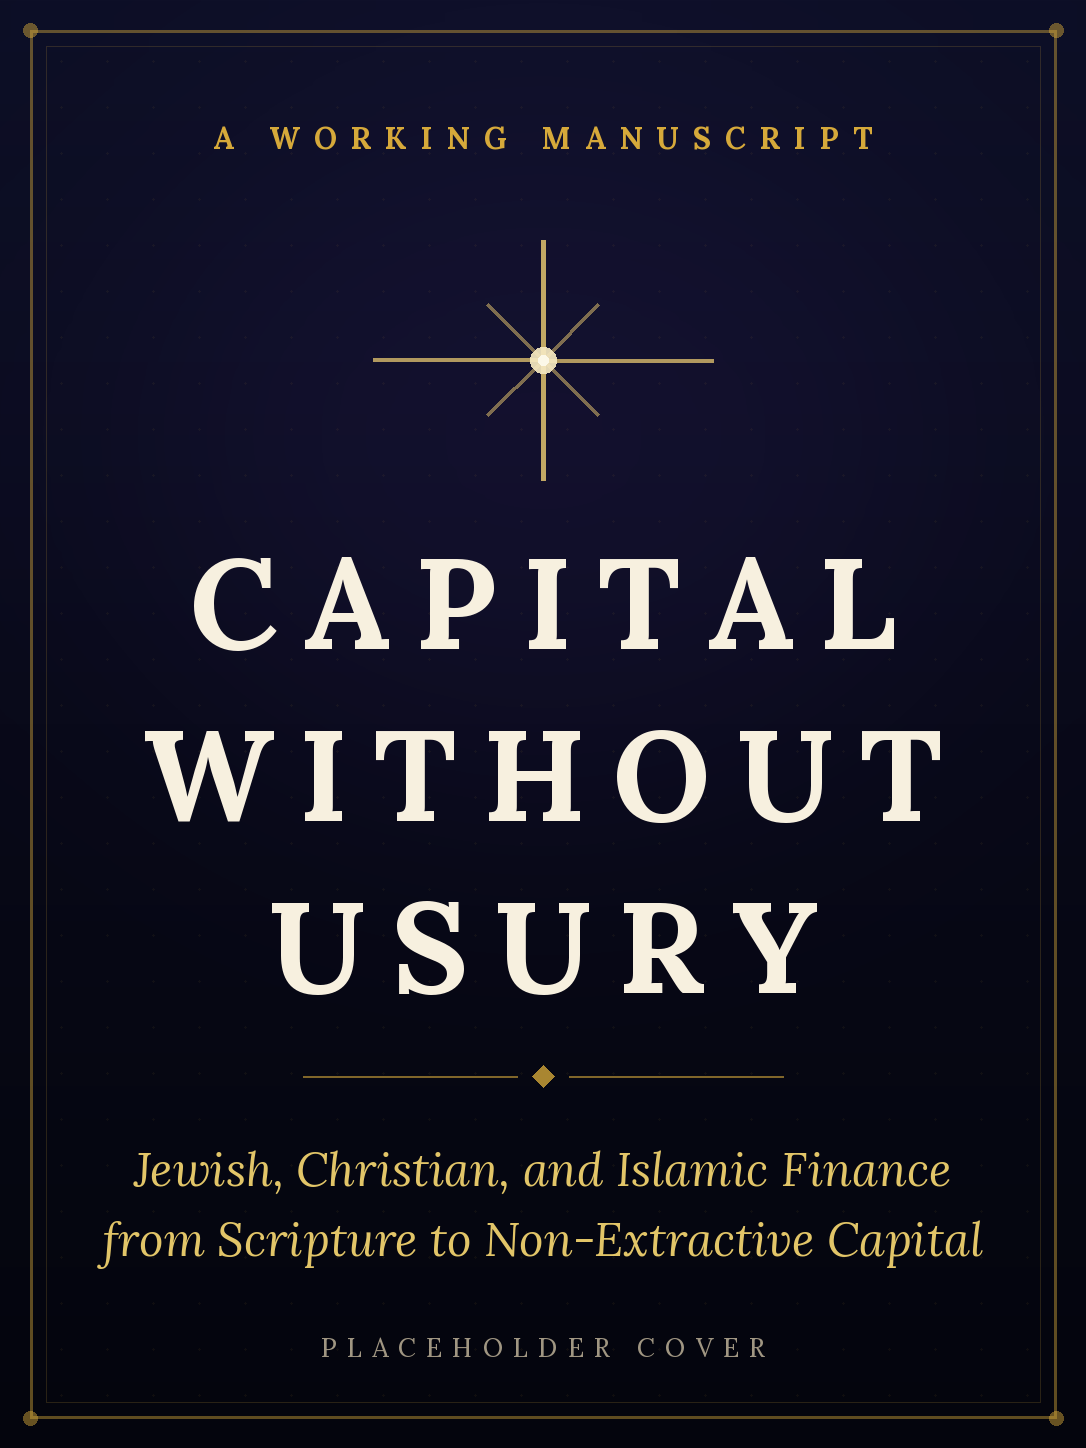
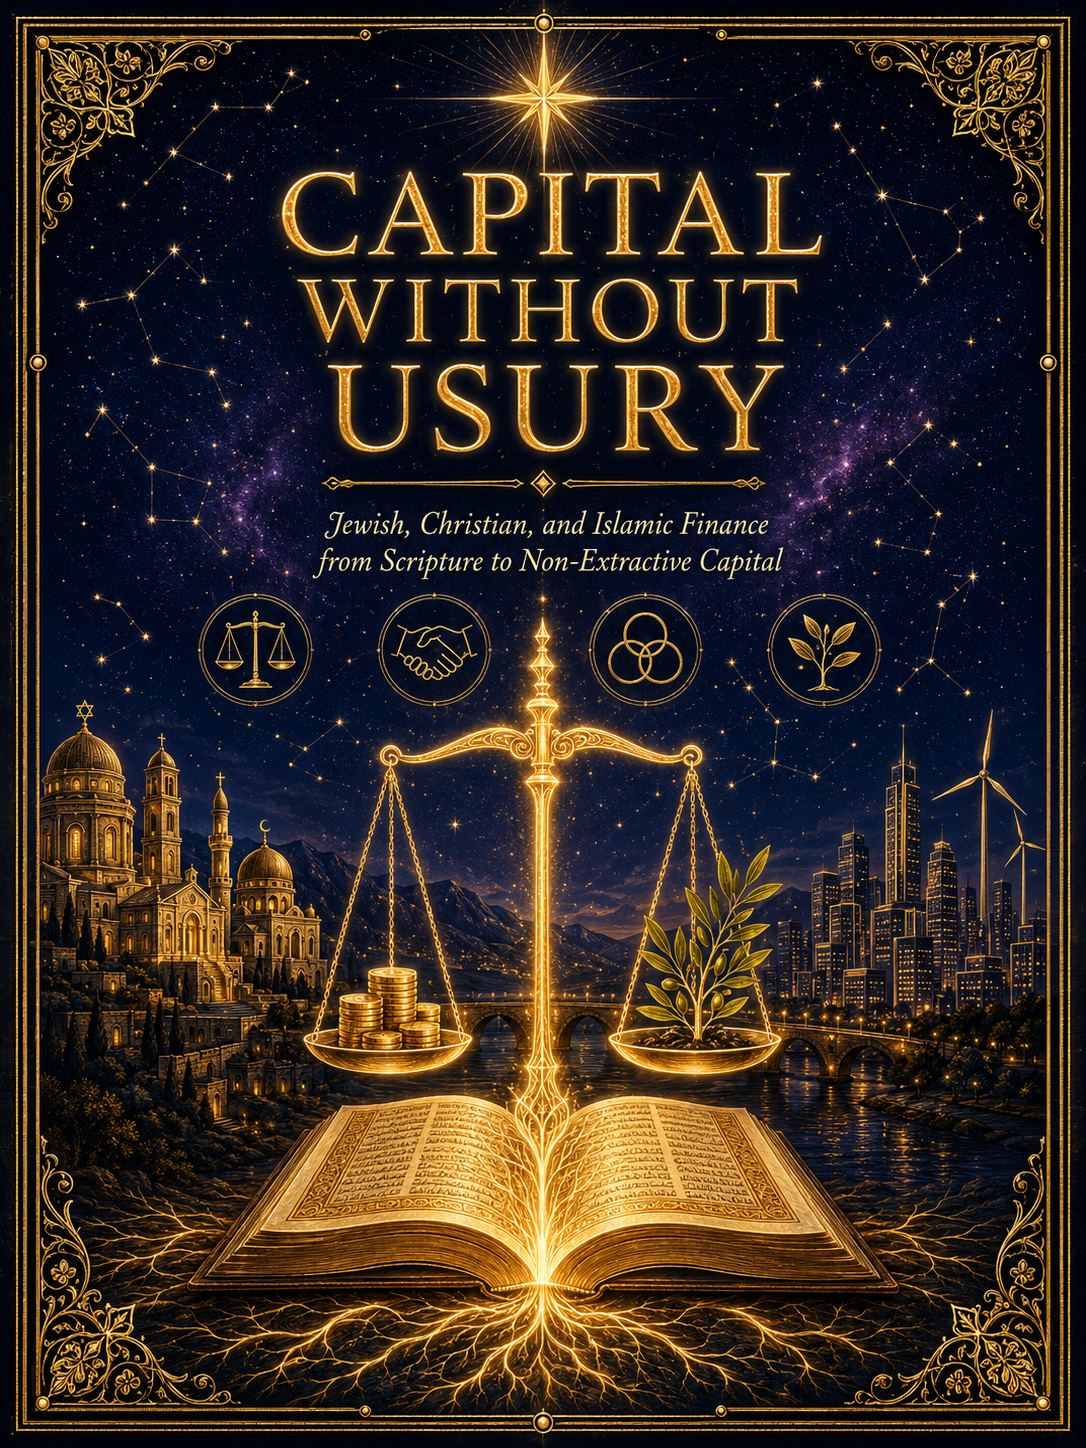
Install final cover art
Replaces the typographic placeholder with the rendered cover (1086 x 1448,
same composition family as the Capital That Serves Life cover) and refreshes
the Open Graph share card from it. README and art-tool notes updated to
reflect that the placeholder stage is over.

Claude-Session: https://claude.ai/code/session_01DNb2CMWzNTmfUdWDD8oopS

diff --git a/tools/make_placeholder_art.py b/tools/make_placeholder_art.py
@@ -1,11 +1,13 @@
 #!/usr/bin/env python3
-"""Generate the placeholder cover art and the Open Graph card for the reader.
+"""Generate cover placeholder art and the Open Graph card for the reader.
 
-The cover at attached_assets/capital-without-usury-cover.png is a typographic
-PLACEHOLDER in the NEC palette. To replace it with real cover art, overwrite
-that file with the final image (same filename, ideally around 1086 x 1448 px,
-3:4 portrait) and rebuild; no code change is needed. Then rerun this script
-with --og-only to refresh the Open Graph card from the new cover.
+The final cover art was installed on 14 Jul 2026. This script's default mode
+(no flags) would OVERWRITE it with a typographic placeholder, so normally run
+it only as `make_placeholder_art.py --og-only`, which rebuilds the Open Graph
+card (opengraph.jpg) from whatever cover is at
+attached_assets/capital-without-usury-cover.png. To swap in new cover art:
+overwrite that file (same filename, about 1086 x 1448 px, 3:4 portrait), run
+--og-only, and rebuild; no code change is needed.
 """
 import argparse
 import math

diff --git a/README.md b/README.md
@@ -43,7 +43,7 @@ The converter mirrors the book's own `assemble.py` (unit order, Part divisions),
 
 ## Cover art
 
-`attached_assets/capital-without-usury-cover.png` is currently a **typographic placeholder**. To install the real cover: overwrite that file with the final image (same filename; portrait, about 1086 x 1448 px), run `python3 tools/make_placeholder_art.py --og-only` to refresh the social-share card (`opengraph.jpg`), commit, and push. No code change is needed.
+`attached_assets/capital-without-usury-cover.png` is the final cover (1086 x 1448 px, installed 14 Jul 2026). To swap in a new version later: overwrite that file (same filename; portrait, about 1086 x 1448 px), run `python3 tools/make_placeholder_art.py --og-only` to refresh the social-share card (`opengraph.jpg`), commit, and push. No code change is needed.
 
 ## Repo layout
 
